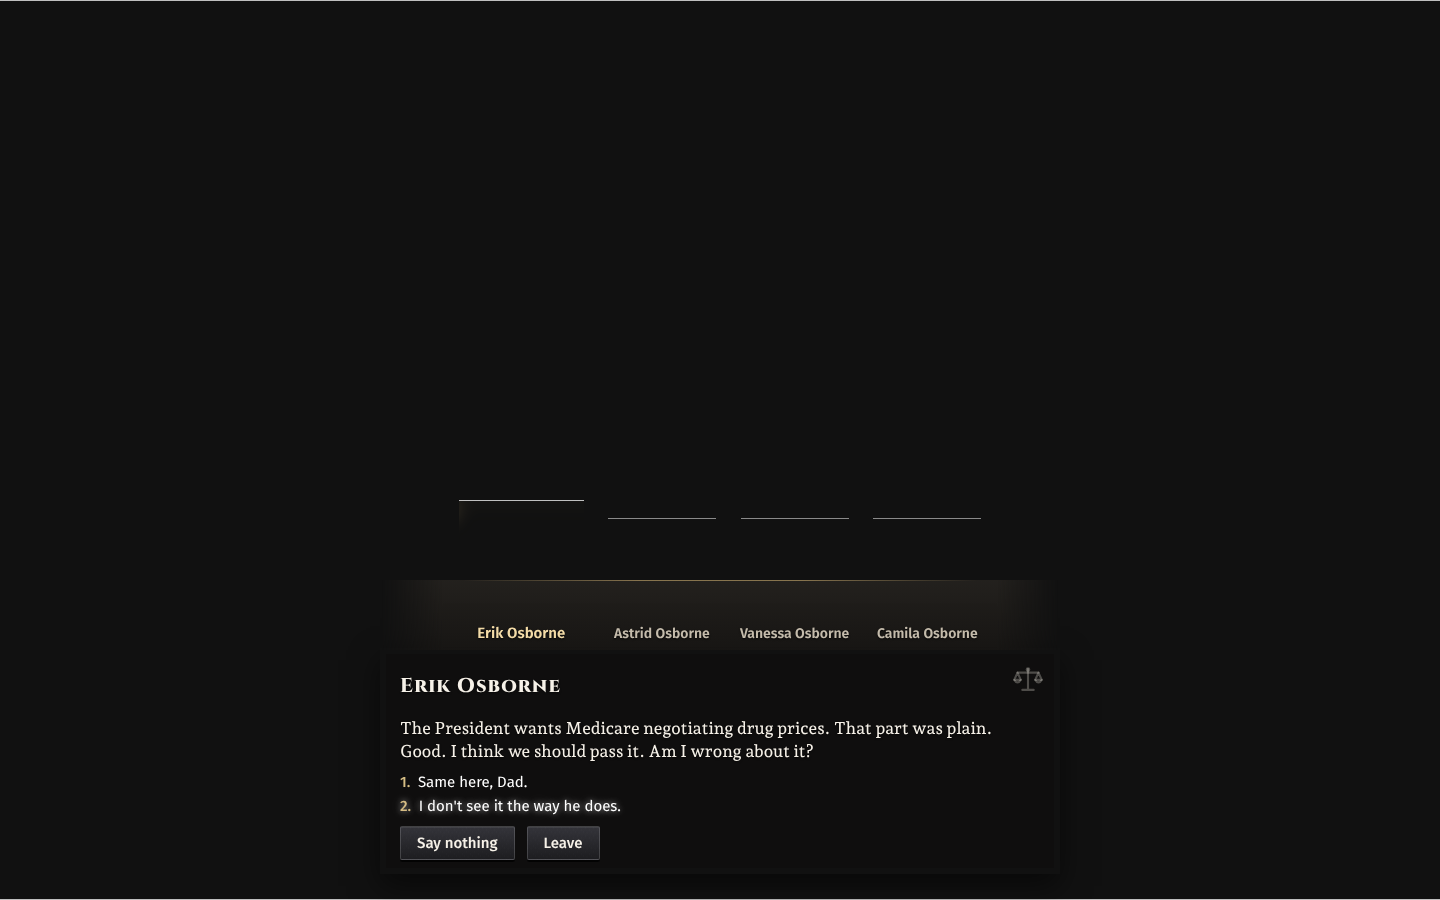
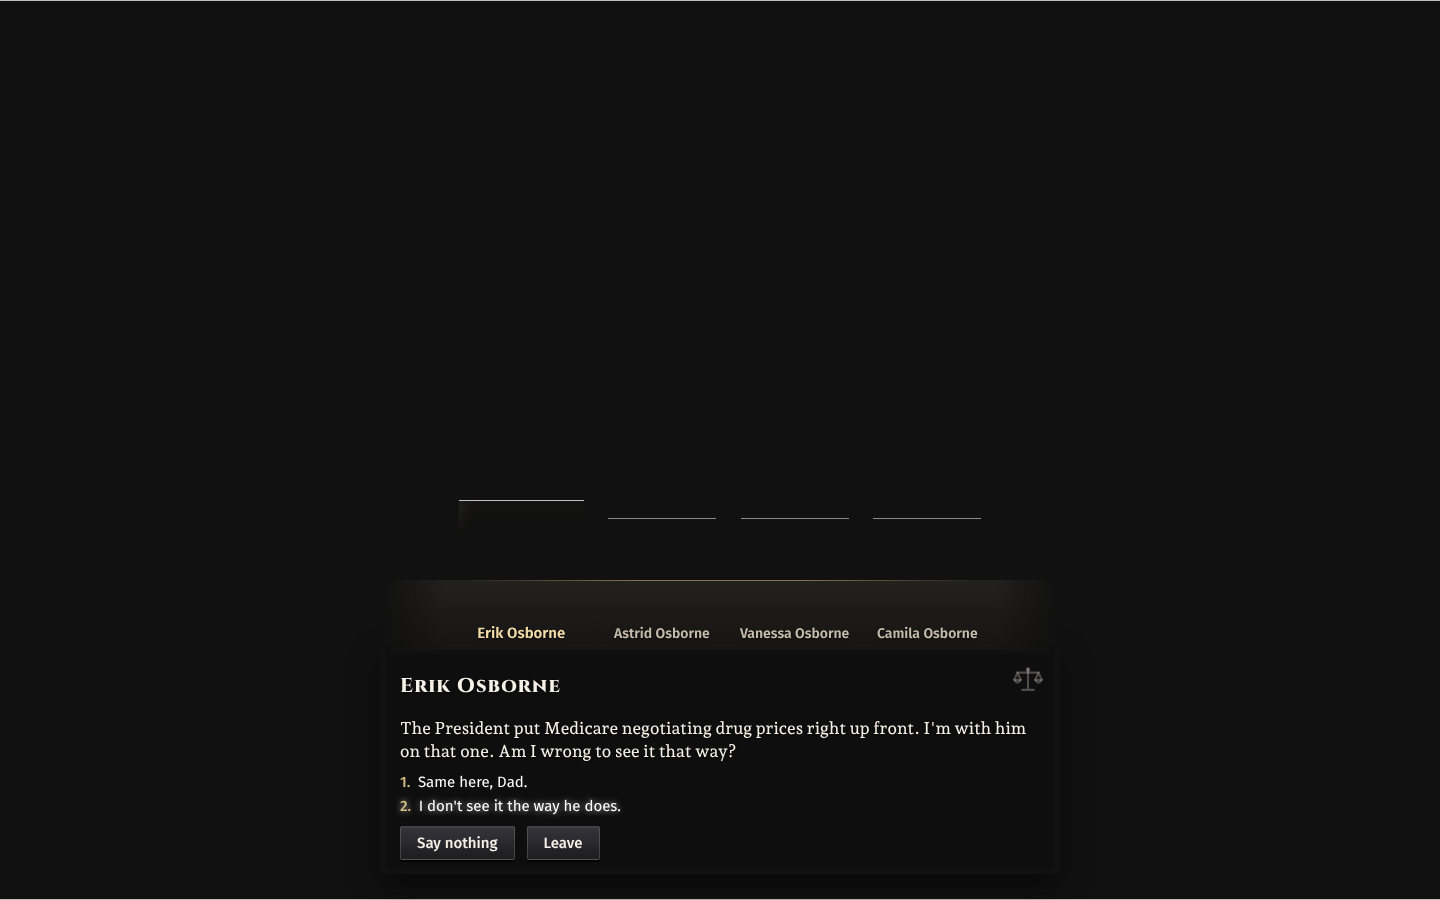
docs: the three drawn worlds' talks at home and what follows each reply, from the branch head
Claude-Session: https://claude.ai/code/session_014CQ1dorysL4SgYkaXUbvUn

Changed region(s): [[0.2812, 0.7778, 0.6875, 0.84]]

diff --git a/docs/play-first/shots/opening-evening-lines-2026-11-18/README.md b/docs/play-first/shots/opening-evening-lines-2026-11-18/README.md
@@ -1,14 +1,13 @@
 # The opening evening at home, rebuilt lines (Nov 18, 2026)
 
-The first talk at home after the President's address, from five drawn worlds on the
-`claude/story-opening-evening-lines` branch (bench seeds `opening-evening-a` to `-e`).
-Each picture is the talk box as the player sees it: the housemate's point of the address,
-where they stand, and the replies offered.
+The first talk at home after the President's address, from three drawn worlds on the
+`claude/story-opening-evening-lines` branch (bench seeds `opening-evening-a` to `-c`), taken
+from a bench run of the branch's head. For each world: the housemate's point and stand with the
+replies offered, then what is said after each reply. The transcript shows the reply the player
+picked, word for word.
 
-| Picture          | Place                | Housemate                  | Opening                                                                                                                          |
-| ---------------- | -------------------- | -------------------------- | -------------------------------------------------------------------------------------------------------------------------------- |
-| mableton-ga.png  | Mableton, Georgia    | Erik Osborne (father)      | The President wants Medicare negotiating drug prices. That part was plain. Good. I think we should pass it. Am I wrong about it? |
-| puhi-hi.png      | Puhi, Hawaii         | Charles Mitchell (father)  | The President made a point of a higher federal minimum wage. That's the part I can't go along with. What do you think about it?  |
-| chance-ok.png    | Chance, Oklahoma     | Paola Lawrence (housemate) | The President wants a higher top income tax rate. That part was plain. He has that one wrong. Where are you on that?             |
-| mandan-nd.png    | Mandan, North Dakota | Delaney McMahon (mother)   | The President wants no part of a higher retirement age. That part was plain. He has that right. Am I wrong about it?             |
-| millsboro-de.png | Millsboro, Delaware  | Phoebe Chang (mother)      | The President put more passenger rail right up front. Good. I think we should pass it. What do you think about it?               |
+| Place                                  | Housemate                 | The talk opens with                                                                                                              | Agree, then                                                                      | Disagree, then                                                               |
+| -------------------------------------- | ------------------------- | -------------------------------------------------------------------------------------------------------------------------------- | -------------------------------------------------------------------------------- | ---------------------------------------------------------------------------- |
+| Mableton, Georgia (`mableton-ga*.png`) | Erik Osborne, father      | The President put Medicare negotiating drug prices right up front. I'm with him on that one. Am I wrong to see it that way?      | "Same here, Dad." / "Good. Then it's not just me, Rohan."                        | "I don't see it the way he does." / "Then let's hope Congress gets it done." |
+| Puhi, Hawaii (`puhi-hi*.png`)          | Charles Mitchell, father  | The President made a point of a higher federal minimum wage. I'm not with her on that. What do you think about that part?        | "I'd have said the same, Dad." / "Now if Congress sees it that way, we're fine." | "I don't know. I'm with her on this one." / "Then we heard her differently." |
+| Chance, Oklahoma (`chance-ok*.png`)    | Paola Lawrence, housemate | The President is pushing a higher top income tax rate now. He can keep that one. I don't want it. Am I wrong to see it that way? | "I'd have said the same, Paola." / "Then let's hope Congress lets it die."       | "I don't know. I'm with him on this one." / "Then we heard him differently." |
